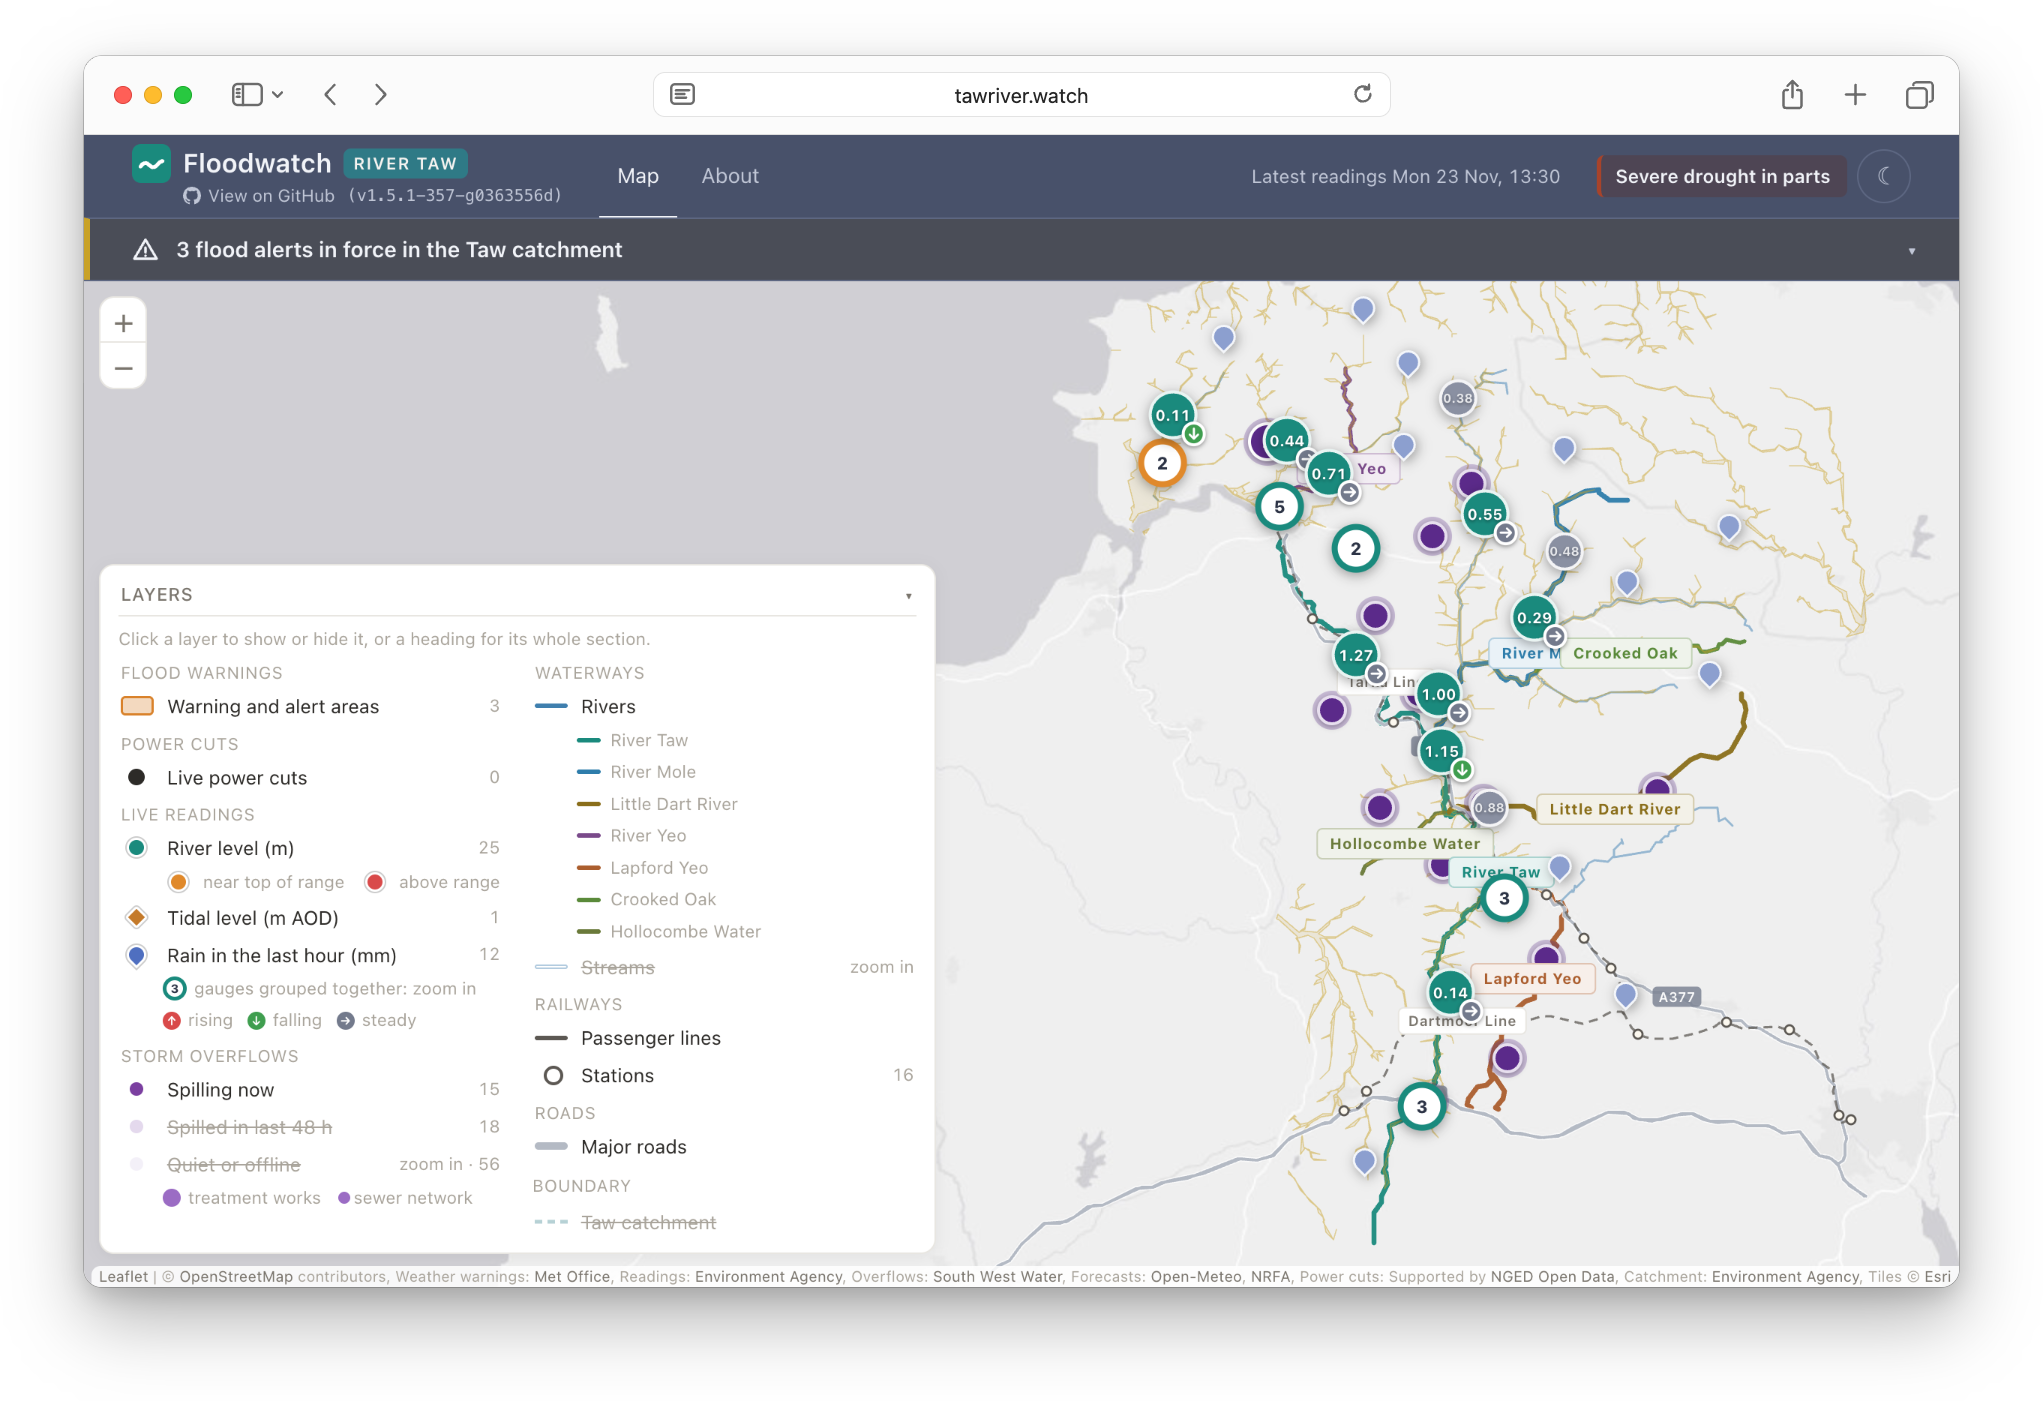
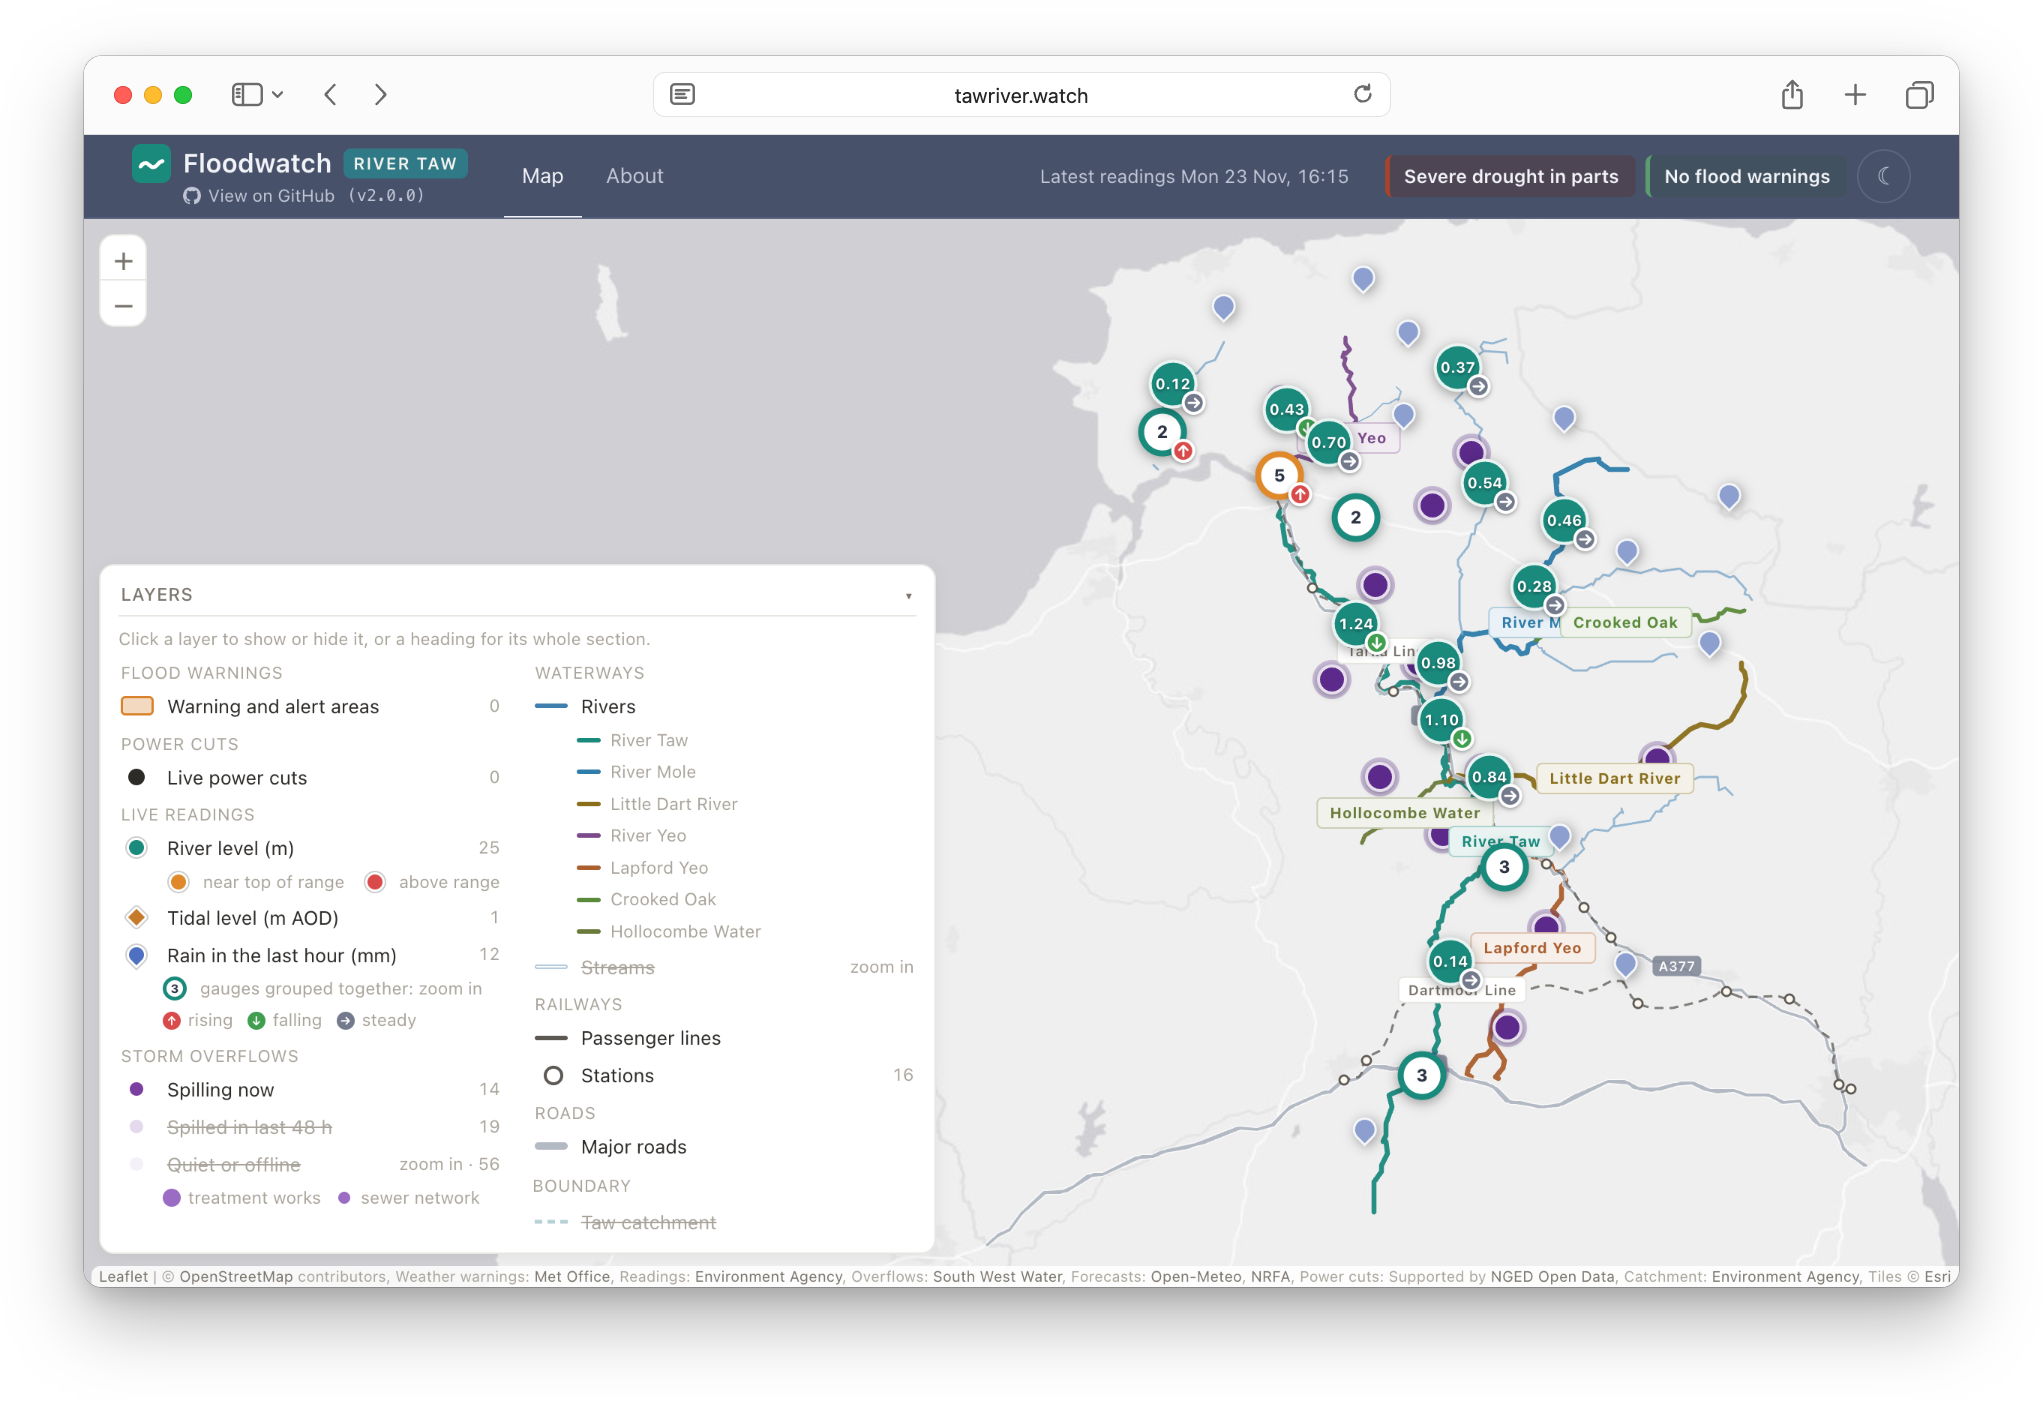
Retake the README screenshot from the live site at v2.0.0, and ignore .ssh/
The page is now captured through Chrome's DevTools protocol
(scripts/capture_page.mjs), with the viewport fixed before the page loads.
Chrome's own --screenshot lays a page out 87 px short and then grows it,
and Leaflet left a column of tiles undrawn across that resize whenever
the flood banner wasn't there to change the layout.

On the server the checkout is the floodwatch user's home directory, so
the deploy key's .ssh/ sits inside it; it's now ignored, so no git add
there can ever pick it up.

diff --git a/scripts/screenshot.py b/scripts/screenshot.py
@@ -1,7 +1,8 @@
 #!/usr/bin/env python3
 """Draw the README's screenshot, docs/screenshot.png: the map in a Safari window.
 
-Google Chrome, headless, captures the page from a running server at the size
+Google Chrome, headless and driven by scripts/capture_page.mjs (so Node 22
+or later too), captures the page from a running server at the size
 of a 1250 x 768 point Safari window, the size of v1's screenshot, at which the
 map opens at zoom 10 with the whole catchment beside the legend. A second pass
 draws Safari's toolbar, rounded corners and the macOS window shadow around it,
@@ -11,7 +12,7 @@ on a transparent background, so it sits on GitHub's light and dark pages alike.
     python3 scripts/screenshot.py
     python3 scripts/screenshot.py --url http://localhost:8090/ --wait 20
 
-Standard library only.
+Standard library only, plus Node for the capture.
 """
 
 import argparse
@@ -19,6 +20,7 @@ import base64
 import subprocess
 import sys
 import tempfile
+import time
 from pathlib import Path
 
 ROOT = Path(__file__).resolve().parent.parent
@@ -96,18 +98,37 @@ def frame(page_png, address):
 </body></html>"""
 
 
-def chrome(binary, tmp, url, size, out, scale, wait_ms=0):
-    # The GPU stays on: headless Chrome lays the page out 87 px short of the
-    # window, then grows it, and without the GPU it never draws a map tile
-    # that was offscreen before the page grew.
-    args = [binary, "--headless", "--hide-scrollbars", f"--force-device-scale-factor={scale}",
-            f"--user-data-dir={Path(tmp) / 'profile'}", "--use-mock-keychain", "--no-first-run",
-            "--default-background-color=00000000", f"--window-size={size[0]},{size[1]}", f"--screenshot={out}"]
-    if wait_ms:
-        # Time for live.json, the overlays and the basemap tiles to arrive, in
-        # real time: a virtual time budget doesn't wait for the tiles.
-        args.append(f"--timeout={wait_ms}")
-    subprocess.run(args + [url], check=True, capture_output=True)
+def chrome(binary, tmp, url, size, out, scale):
+    """Render a static page, the window frame, with Chrome's own --screenshot."""
+    subprocess.run([binary, "--headless", "--hide-scrollbars", f"--force-device-scale-factor={scale}",
+                    f"--user-data-dir={Path(tmp) / 'frame-profile'}", "--use-mock-keychain", "--no-first-run",
+                    "--default-background-color=00000000", f"--window-size={size[0]},{size[1]}",
+                    f"--screenshot={out}", url], check=True, capture_output=True)
+
+
+def capture_page(binary, tmp, url, out, wait):
+    """Capture the live map through Chrome's DevTools protocol, with the
+    viewport fixed before the page loads (scripts/capture_page.mjs says why
+    --screenshot won't do), waiting in real time for the tiles."""
+    profile = Path(tmp) / "page-profile"
+    # The 2x scale is Chrome's own: emulating it through DevTools leaves
+    # hairline gaps between Leaflet's tiles.
+    browser = subprocess.Popen([binary, "--headless", "--hide-scrollbars", "--remote-debugging-port=0",
+                                f"--force-device-scale-factor={PAGE_SCALE}", f"--user-data-dir={profile}",
+                                "--use-mock-keychain", "--no-first-run", "--window-size=1600,1200", "about:blank"],
+                               stdout=subprocess.DEVNULL, stderr=subprocess.DEVNULL)
+    try:
+        port_file = profile / "DevToolsActivePort"
+        for _ in range(100):
+            if port_file.exists() and port_file.read_text().strip():
+                break
+            time.sleep(0.1)
+        port = port_file.read_text().split()[0]
+        subprocess.run(["node", str(ROOT / "scripts" / "capture_page.mjs"), port, url, str(out),
+                        str(WIDTH), str(HEIGHT), str(PAGE_SCALE), str(int(wait * 1000))], check=True)
+    finally:
+        browser.terminate()
+        browser.wait(timeout=10)
 
 
 def main():
@@ -121,7 +142,7 @@ def main():
         sys.exit("Google Chrome or Chromium is needed to take the screenshot")
     with tempfile.TemporaryDirectory() as tmp:
         shot = Path(tmp) / "page.png"
-        chrome(binary, tmp, args.url, (WIDTH, HEIGHT), shot, PAGE_SCALE, int(args.wait * 1000))
+        capture_page(binary, tmp, args.url, shot, args.wait)
         card = Path(tmp) / "frame.html"
         card.write_text(frame(shot.read_bytes(), args.address))
         top, right, bottom, left = MARGIN

diff --git a/README.md b/README.md
@@ -1,6 +1,6 @@
 # Floodwatch
 
-![Floodwatch in a Safari window: the River Taw catchment in north Devon, with river level gauges as teal circles showing their readings in metres, rain gauges as drops, storm overflows spilling now as dark purple dots, clusters of gauges as white circles with a count, the Tarka and Dartmoor lines, a flood alert banner under the header and the layers legend open at the bottom left](docs/screenshot.png)
+![Floodwatch in a Safari window: the River Taw catchment in north Devon, with river level gauges as teal circles showing their readings in metres, rain gauges as drops, storm overflows spilling now as dark purple dots, clusters of gauges as white circles with a count, the Tarka and Dartmoor lines, the drought and flood warning tags in the header, and the layers legend open at the bottom left](docs/screenshot.png)
 
 Floodwatch shows what the River Taw is doing: how high each gauge is and whether it's rising, how much rain has fallen in the last hour, which storm overflows are spilling, and what flood and weather warnings are in force across the catchment, from Dartmoor to Barnstaple. It runs at [tawriver.watch](https://tawriver.watch).
 
@@ -116,7 +116,7 @@ The other targets:
 make poll     # run one poll of every feed, without the server
 make test     # run the Python and JavaScript tests
 make og       # redraw the link preview card, site/img/og-image.png (needs Google Chrome and make data)
-make screenshot  # retake docs/screenshot.png, the map in a Safari window, from the running server (needs Google Chrome)
+make screenshot  # retake docs/screenshot.png, the map in a Safari window, from the running server (needs Google Chrome and Node)
 make clean    # remove the libraries, overlays and download cache; the database stays
 ```
 
@@ -242,6 +242,7 @@ scripts/archive.py         export, restore and push the archive
 scripts/calibrate_flow.py  finds the GloFAS cell that carries a river past a gauge
 scripts/og_image.py        draws site/img/og-image.png, the link preview card
 scripts/screenshot.py      takes docs/screenshot.png, the map in a Safari window
+scripts/capture_page.mjs   captures the page for it at an exact size, through Chrome's DevTools protocol
 archive/                   every reading and spill, in v1's CSV format
 site/index.html            the page
 site/css/style.css         layout and theme, light and dark
